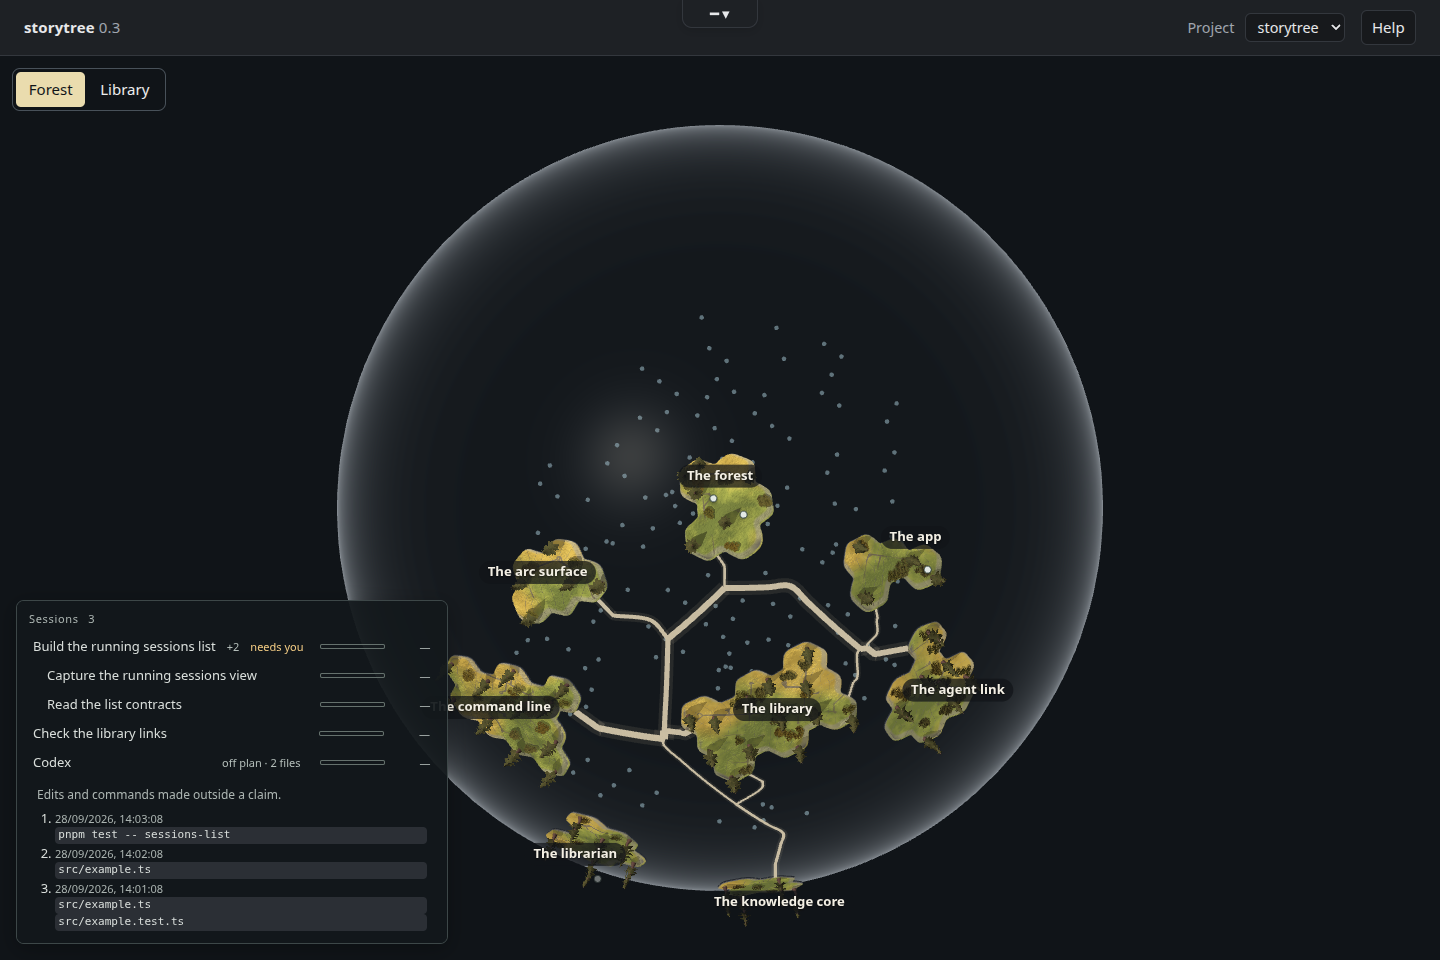
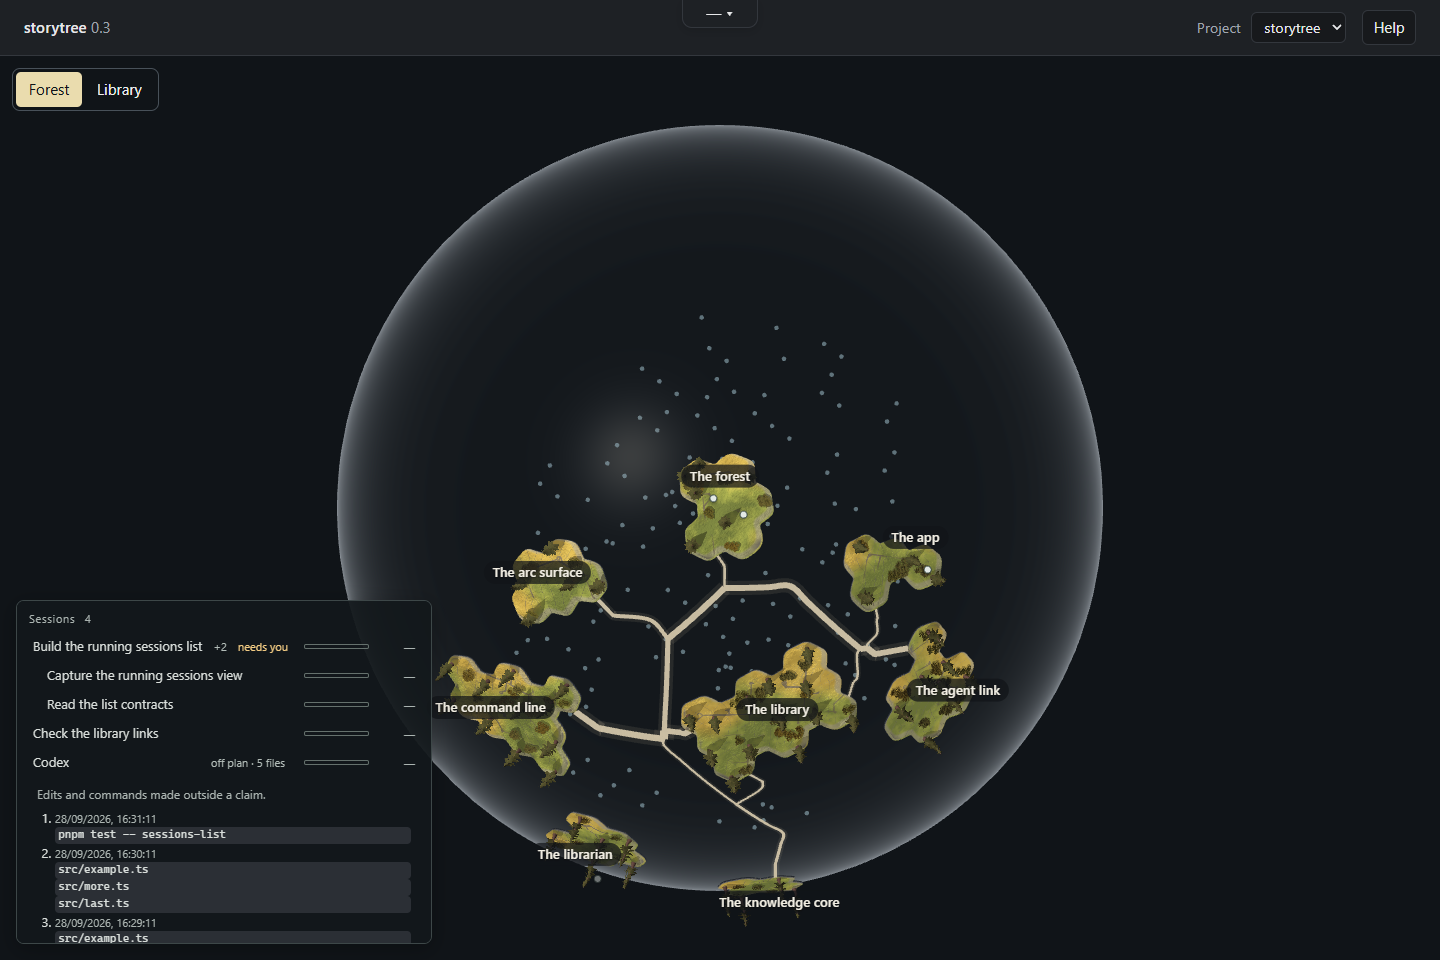
feat(forest): hide off-plan sessions unless they need attention
A session holding no claim is still recorded in full, but the running-sessions
list now shows it only when its unclaimed edits reach 5 distinct files or it
runs git push / gh pr create while holding no claim. A surfaced row keeps
today's look. Contracts 6.1, 6.3 and 7.1 amended in the library first.

Increment increment_9aa5452fdfe2, arc arc_895e232031b0.

diff --git a/packages/forest/src/sessions-list/sessions-list.test.ts b/packages/forest/src/sessions-list/sessions-list.test.ts
@@ -20,12 +20,13 @@ const arc = { arc: { id: "arc", fields: { title: "Build" } }, state: "active",
   increments: [{ id: "inc", fields: { title: "Finish signup", status: "active", touches: ["cap-two"] } }],
   questions: [{ id: "q", fields: { title: "Choose wording", lifecycle: "open" } }] } as ArcView;
 
-test("one row per non-ended session, plain idle, reason and held islands follow standing claims", () => {
+test("one row per non-ended claiming session, plain idle, reason and held islands follow standing claims", () => {
   const lines = log(claimed("cap-one", "Build signup"), claimed("cap-two", "Build signup"),
-    { ...off, kind: "session-started", at: "2026-09-28T10:00:00Z" },
-    { ...child, kind: "session-ended" });
+    { ...off, kind: "claimed", increment: "tidy", reason: "", at: "2026-09-28T10:00:00Z" },
+    { ...child, kind: "session-ended" },
+    { session: "quiet", harness: "codex", source: "hook", kind: "session-started" });
   const rows = sessionRows(tree, lines, [], now);
-  assert.deepEqual(rows.map(row => row.id), ["parent", "off"]);
+  assert.deepEqual(rows.map(row => row.id), ["parent", "off"], "a session holding no claim gets no row");
   assert.equal(rows[0]!.label, "Build signup");
   assert.deepEqual(rows[0]!.stories, ["one", "two"]);
   assert.equal(rows[1]!.state, "idle");
@@ -54,22 +55,35 @@ test("explicit children nest once, propagate needs-you and islands; ending a par
   assert.deepEqual(sessionRows(tree, lines, [arc], now).map(row => row.id), ["child"]);
 });
 
-test("off-plan rows retain distinct files and command evidence; claimed edits stay out and islands are never guessed", () => {
+test("off-plan work stays out of the list until 5 distinct unclaimed files, then shows its files and command evidence; claimed edits stay out and islands are never guessed", () => {
   const lines = log({ ...off, kind: "file-edited", files: ["src/a.ts", "src/b.ts"] },
-    { ...off, kind: "file-edited", files: ["src/a.ts"] },
+    { ...off, kind: "file-edited", files: ["src/a.ts", "src/c.ts", "src/d.ts"] },
     { ...off, kind: "command-run", command: "pnpm test" });
+  assert.deepEqual(sessionRows(tree, lines, [], now), [], "4 files is below the line");
+  lines.push(...log({ ...off, kind: "file-edited", files: ["src/e.ts"] }).map(line => ({ ...line, seq: 4 })));
   const [row] = sessionRows(tree, lines, [], now);
-  assert.deepEqual(row!.files, ["src/a.ts", "src/b.ts"]);
-  assert.equal(row!.offPlan.length, 3);
-  assert.equal(row!.offPlan[0]!.command, "pnpm test");
+  assert.deepEqual(row!.files, ["src/a.ts", "src/b.ts", "src/c.ts", "src/d.ts", "src/e.ts"]);
+  assert.equal(row!.offPlan.length, 4);
+  assert.equal(row!.offPlan[1]!.command, "pnpm test");
   assert.deepEqual(row!.stories, []);
   lines.push(...log({ ...off, kind: "claimed", capability: "cap-one", reason: "Build" },
-    { ...off, kind: "file-edited", files: ["src/claimed.ts"] }).map(line => ({ ...line, seq: line.seq + 3 })));
-  assert.deepEqual(sessionRows(tree, lines, [], now)[0]!.files, ["src/a.ts", "src/b.ts"]);
+    { ...off, kind: "file-edited", files: ["src/claimed.ts"] }).map(line => ({ ...line, seq: line.seq + 4 })));
+  assert.deepEqual(sessionRows(tree, lines, [], now)[0]!.files, ["src/a.ts", "src/b.ts", "src/c.ts", "src/d.ts", "src/e.ts"]);
+});
+
+test("an unclaimed push or pull request surfaces the session whatever its file count; other commands do not", () => {
+  const ran = (session: string, command: string): NewLine => ({ session, harness: "codex", source: "hook", kind: "command-run", command });
+  const lines = log(ran("reader", "git status"), ran("reader", "git stash push"), ran("reader", "pnpm test"),
+    ran("pusher", "git -C C:/work/x push -u origin fix"), ran("opener", "cd x && gh pr create --fill"),
+    claimed("cap-one", "Build signup"), { ...parent, kind: "command-run", command: "git push" });
+  const rows = sessionRows(tree, lines, [], now);
+  assert.deepEqual(rows.map(row => row.id).sort(), ["opener", "parent", "pusher"]);
+  assert.deepEqual(rows.find(row => row.id === "pusher")!.files, []);
+  assert.equal(rows.find(row => row.id === "pusher")!.offPlan[0]!.command, "git -C C:/work/x push -u origin fix");
 });
 
 test("supplied supervision and totals use a view seam without parsing transcripts; missing parents and cycles keep rows reachable", () => {
-  const lines = log(claimed("cap-one", "Build signup"), { ...child, kind: "session-started" });
+  const lines = log(claimed("cap-one", "Build signup"), { ...child, kind: "claimed", increment: "inc", reason: "Finish signup" });
   const details = new Map([["child", { parentSession: "parent", totalTokens: 120_000 }]]);
   const [row] = sessionRows(tree, lines, [], now, details);
   assert.equal(row!.children[0]!.totalTokens, 120_000);

diff --git a/packages/forest/src/sessions-list/sessions-list.ts b/packages/forest/src/sessions-list/sessions-list.ts
@@ -1,7 +1,7 @@
 /** The forest's running sessions, read from the agent link; no transcript or liveness reader here. */
 import { claimsFrom, sessionsFrom, type Line, type SessionState } from "@storytree/agent-link/readings";
 import type { AnnotatedTree, ArcView } from "@storytree/library";
-import { unclaimedWork, type UnclaimedEntry } from "../unclaimed-work/unclaimed-work.js";
+import { needsAttention, unclaimedWork, type UnclaimedEntry } from "../unclaimed-work/unclaimed-work.js";
 
 /** Integration seam for explicit agent-link readings once available. Never inferred from prose. */
 export interface SessionDetails {
@@ -33,6 +33,8 @@ export function sessionRows(tree: AnnotatedTree, lines: readonly Line[], arcs: r
   for (const entry of unclaimedWork(lines).entries) evidence.set(entry.session, [...(evidence.get(entry.session) ?? []), entry]);
   const rows = new Map<string, SessionRow>();
   const parents = new Map<string, string>();
+  /** Sessions that earn a row of their own: they hold a claim, or their off-plan work needs attention. */
+  const listed = new Set<string>();
   for (const session of sessions) {
     if (session.state === "ended") continue;
     const own = claims.filter(claim => claim.session === session.session);
@@ -42,6 +44,7 @@ export function sessionRows(tree: AnnotatedTree, lines: readonly Line[], arcs: r
     const question = arcs.some(arc => arc.questions.some(q => q.fields.lifecycle === "open") &&
       arc.increments.some(inc => inc.fields.status !== "closed" && (heldIncrements.includes(inc) || inc.fields.touches?.some(id => held.has(id)))));
     const offPlan = evidence.get(session.session) ?? [];
+    if (own.length > 0 || needsAttention(offPlan)) listed.add(session.session);
     const detail = details.get(session.session);
     if (detail?.parentSession) parents.set(session.session, detail.parentSession);
     rows.set(session.session, { id: session.session,
@@ -78,7 +81,9 @@ export function sessionRows(tree: AnnotatedTree, lines: readonly Line[], arcs: r
     row.stories = [...new Set([...row.stories, ...row.children.flatMap(child => child.stories)])];
   }
   for (const row of roots) includeChildren(row);
-  return roots;
+  // Unclaimed work below the attention line stays recorded but out of the list.
+  const earnsRow = (row: SessionRow): boolean => listed.has(row.id) || row.children.some(earnsRow);
+  return roots.filter(earnsRow);
 }
 
 function contextTotal(detail: SessionDetails | undefined): number | undefined {

diff --git a/packages/forest/src/unclaimed-work/unclaimed-work.ts b/packages/forest/src/unclaimed-work/unclaimed-work.ts
@@ -8,6 +8,8 @@
  * to), so it touches no story node and appears as off-plan evidence in the session list (U1). Whether an edit is
  * unclaimed is decided by the claim, never by the files: the agent link's own attribution
  * (`attributeFrom`) says which capability each counts toward, and one it gives none is unclaimed.
+ * Everything is recorded; a session's unclaimed work needs attention (and so gets a row) only past
+ * the line `needsAttention` draws.
  */
 import { attributeFrom, labelOf, type Line } from "@storytree/agent-link/readings";
 
@@ -45,4 +47,26 @@ export function unclaimedWork(lines: readonly Line[]): UnclaimedWork {
     }))
     .reverse();
   return { count: entries.length, entries };
+}
+
+/** Distinct unclaimed files at which a session's off-plan work needs attention. */
+export const OFF_PLAN_FILE_LINE = 5;
+
+/** Whether one session's unclaimed entries need attention: 5 distinct files, or a push or pull request. */
+export function needsAttention(entries: readonly UnclaimedEntry[]): boolean {
+  return new Set(entries.flatMap(entry => entry.files)).size >= OFF_PLAN_FILE_LINE ||
+    entries.some(entry => entry.command !== undefined && reachesRemote(entry.command));
+}
+
+/** A `git push` (options before the verb allowed) or a `gh pr create`, anywhere in a command line. */
+function reachesRemote(command: string): boolean {
+  return command.split(/[;&|\n]+/).some(segment => {
+    const words = segment.trim().split(/\s+/);
+    const tool = words[0]?.replace(/\.exe$/i, "").split(/[\\/]/).pop();
+    if (tool === "gh") return words[1] === "pr" && words[2] === "create";
+    if (tool !== "git") return false;
+    let i = 1;
+    while (words[i]?.startsWith("-")) i += ["-C", "-c", "--git-dir", "--work-tree"].includes(words[i]!) ? 2 : 1;
+    return words[i] === "push";
+  });
 }

diff --git a/packages/forest/evidence/sessions-list/README.md b/packages/forest/evidence/sessions-list/README.md
@@ -6,6 +6,8 @@ The list shows one row per non-ended session, with claim words, an empty context
 
 The separate Unclaimed work box is replaced by each session's `off plan` file count and expandable, timestamped edit/command evidence. File counts are distinct paths; claimed edits never enter this evidence. Idle sessions remain plain; ended sessions and their old evidence are hidden, pending the owner's look.
 
+**Off-plan rows are hidden unless they need attention** (increment `increment_9aa5452fdfe2`, owner-directed 2026-09-28). A session holding no claim is still recorded in full, but it gets a row only when its unclaimed edits reach **5 distinct files**, or when it runs `git push` or `gh pr create` while holding no claim. Below that line (editing a little before claiming, a quick unclaimed fix, reading around) it stays out of the list. A surfaced row looks exactly as before. The capture adds a pusher session (0 files, one `git push`: shown) and a below-the-line session (4 files and a `git stash push`: no row); the pictures were re-taken on Windows with Playwright's headless Chromium.
+
 ## Evidence
 
 - [Default list](sessions-list.png)
